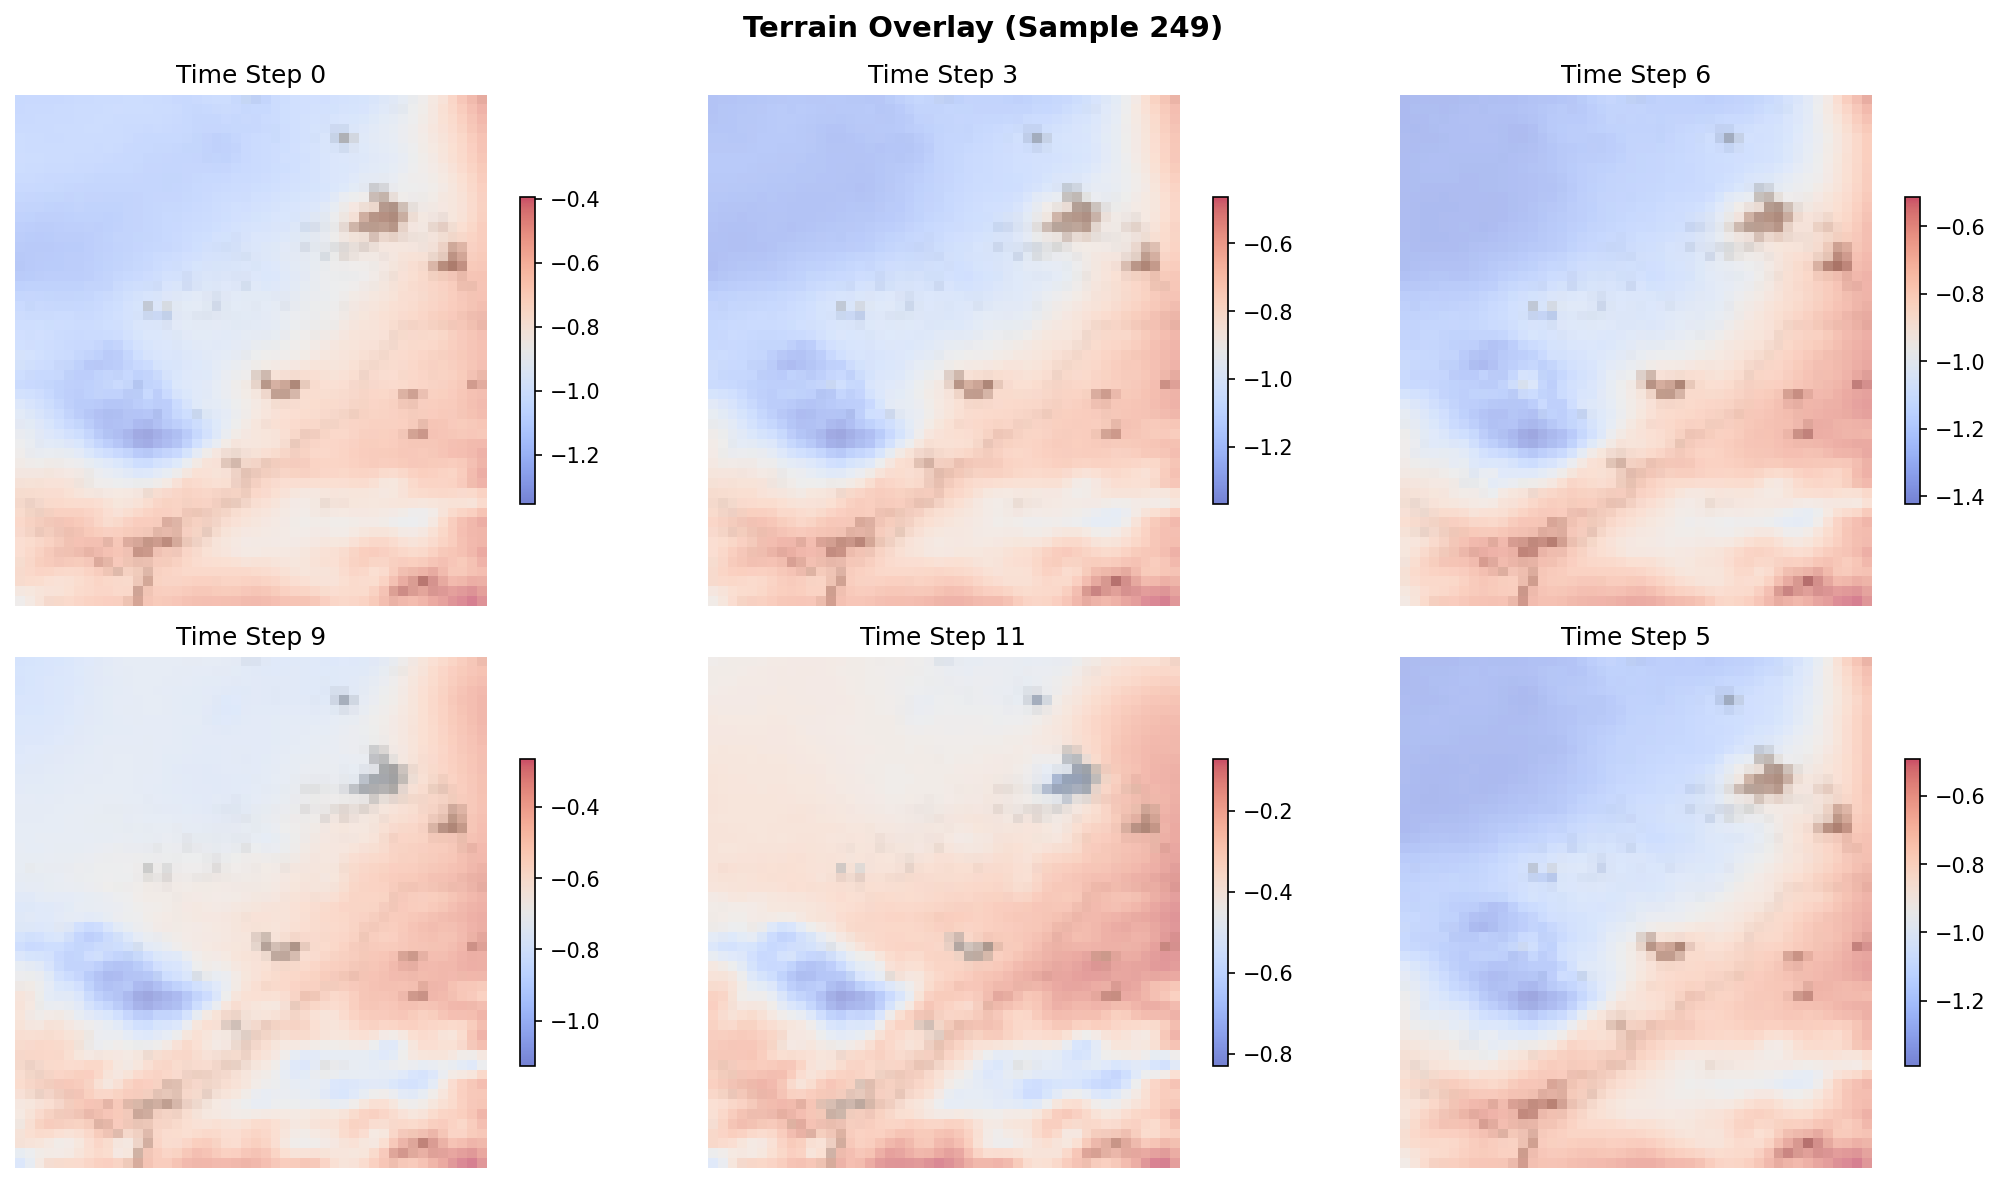
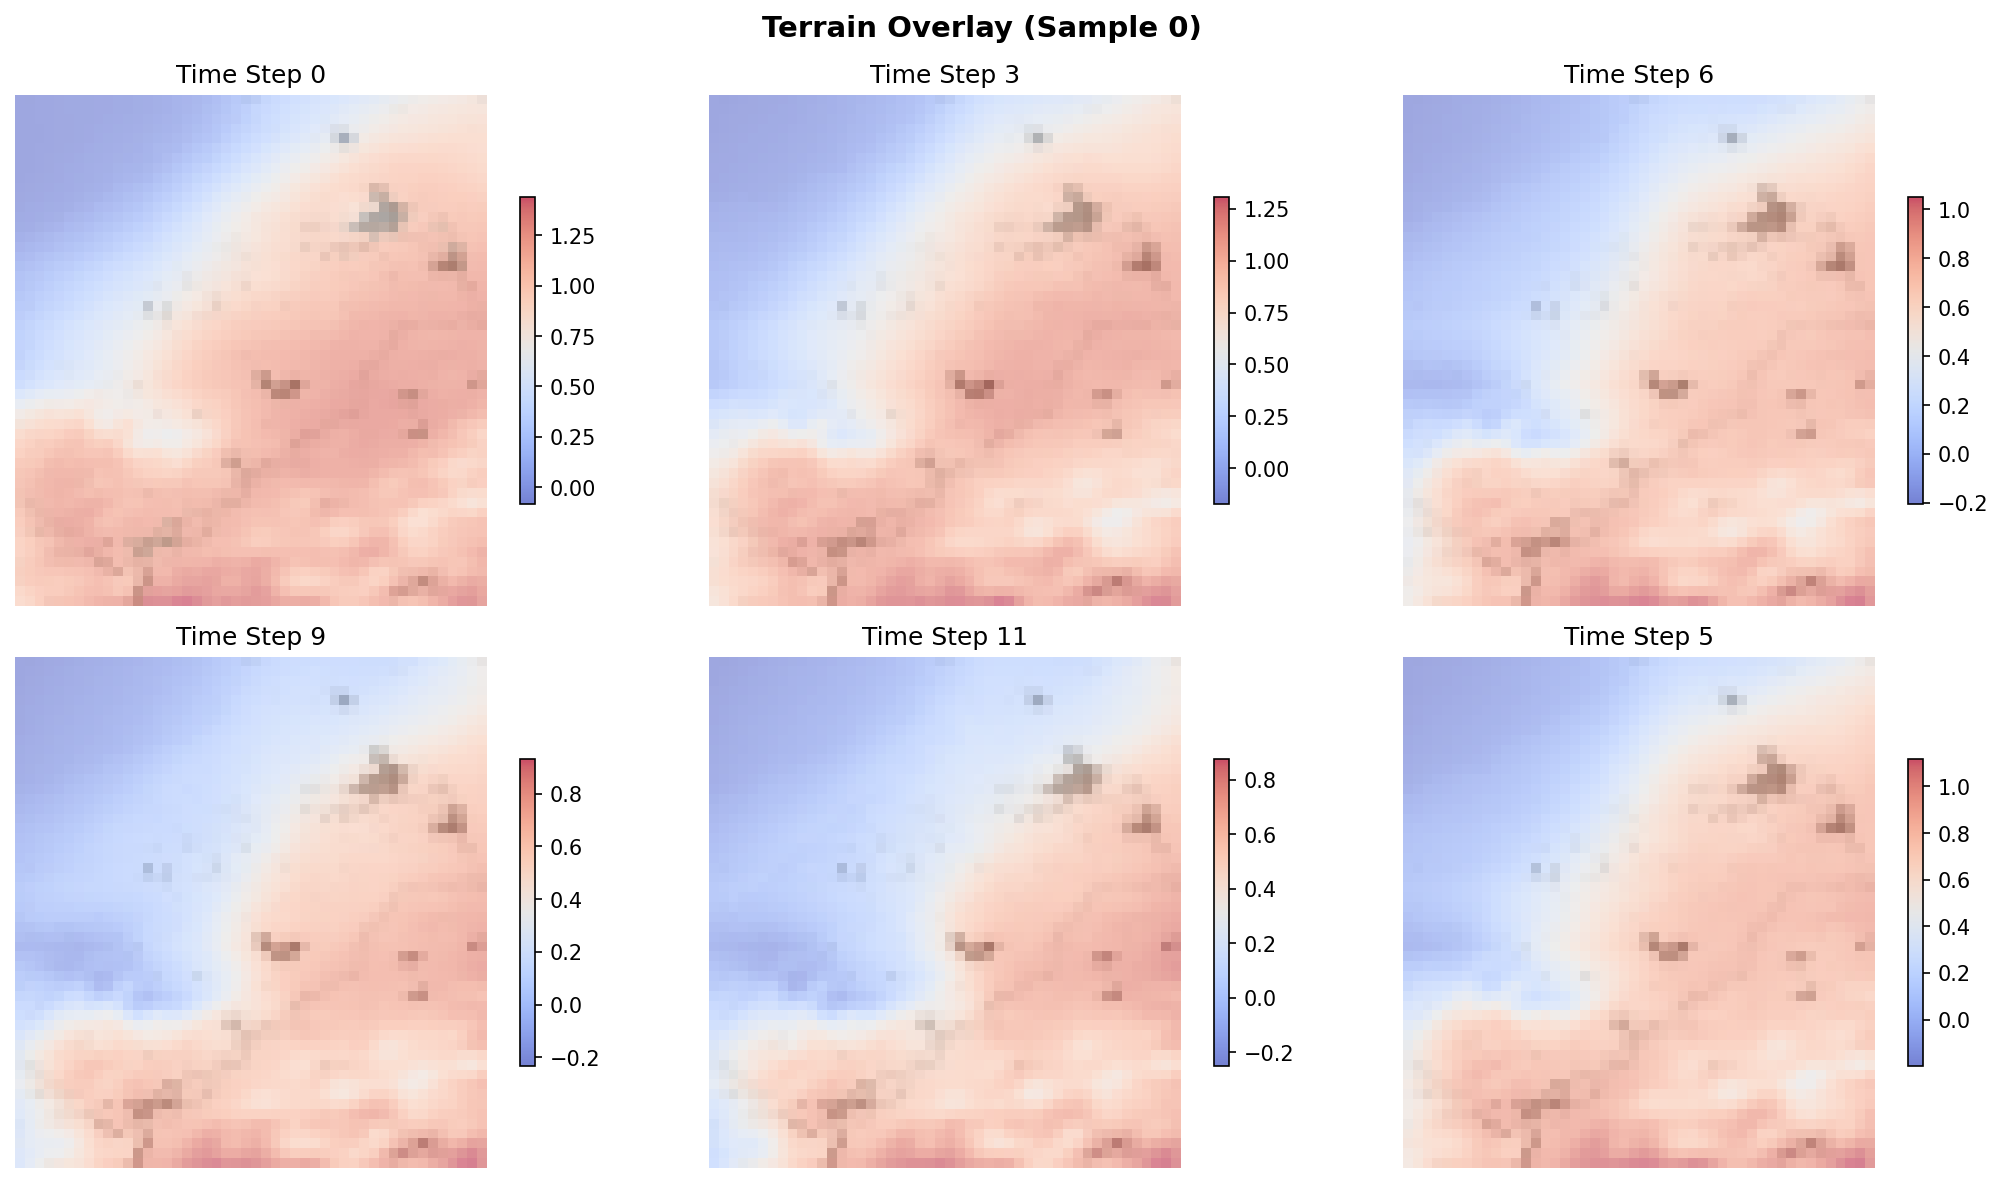
optimization

diff --git a/scripts/train.py b/scripts/train.py
@@ -1,26 +1,42 @@
-import argparse
-import os
-
+from src.config import DEVICE, PT_DATA_DIR, PT_DATA_FILE, TERRAIN_DATA_FILE, BATCH_SIZE, ACCUMULATE_STEPS, NUM_EPOCHS, LEARNING_RATE, WEIGHT_DECAY
 from torch.utils.data import DataLoader
 from src.dataset import ClimateDataset
 from src.models import ClimateUNet
-from src.config import DEVICE, PT_DATA_DIR, PT_DATA_FILE, TERRAIN_DATA_FILE, BATCH_SIZE, ACCUMULATE_STEPS, NUM_EPOCHS, LEARNING_RATE, WEIGHT_DECAY
+from src.animator import Animator
 import torch.optim as optim
 import torch.nn as nn
 from tqdm import tqdm
-from src.animator import Animator
+import argparse
 import torch
+import os
 
 if __name__ == "__main__":
-    parser = argparse.ArgumentParser(description="Train ClimateUNet model")
-    parser.add_argument("--resume", "--ckpt", type=str, default=None, dest="resume",
-                        help="Path to checkpoint to resume from")
-    parser.add_argument("--epochs", type=int, default=NUM_EPOCHS,
-                        help=f"Number of training epochs (default: {NUM_EPOCHS})")
-    parser.add_argument("--batch-size", type=int, default=BATCH_SIZE,
-                        help=f"Batch size (default: {BATCH_SIZE})")
-    parser.add_argument("--accumulate-steps", type=int, default=ACCUMULATE_STEPS,
-                        help=f"Gradient accumulation steps (default: {ACCUMULATE_STEPS})")
+    parser = argparse.ArgumentParser(description = "Train ClimateUNet model")
+    parser.add_argument(
+        "--resume",
+        type = str, 
+        default = None, 
+        dest = "resume",
+        help = "Path to checkpoint to resume from"
+    )
+    parser.add_argument(
+        "--epochs", 
+        type = int, 
+        default = NUM_EPOCHS,
+        help = f"Number of training epochs (default: {NUM_EPOCHS})"
+    )
+    parser.add_argument(
+        "--batch-size", 
+        type = int, 
+        default = BATCH_SIZE,
+        help = f"Batch size (default: {BATCH_SIZE})"
+    )
+    parser.add_argument(
+        "--accumulate-steps", 
+        type = int, 
+        default = ACCUMULATE_STEPS,
+        help = f"Gradient accumulation steps (default: {ACCUMULATE_STEPS})"
+    )
     args = parser.parse_args()
 
     train_dataset = ClimateDataset(
@@ -31,7 +47,7 @@ if __name__ == "__main__":
     eval_dataset = ClimateDataset(
         data_path=PT_DATA_DIR + "/" + PT_DATA_FILE,
         terrain_path=PT_DATA_DIR + "/" + TERRAIN_DATA_FILE,
-        split="val"
+        split="test"
     )
     model = ClimateUNet(
         terrain_data = train_dataset.terrain.repeat(2, 1, 1), 

diff --git a/src/dataset.py b/src/dataset.py
@@ -1,9 +1,7 @@
 from datetime import datetime, timedelta
-
 from torch.utils.data import Dataset
+from torchvision import transforms
 import torch
-
-from src.config import TRAIN_RATIO, VAL_RATIO
 
 
 class ClimateDataset(Dataset):
@@ -29,24 +27,20 @@ class ClimateDataset(Dataset):
 
         mean = self.data.mean(dim = [0, 2, 3])
         std = self.data.std(dim = [0, 2, 3])
-        self.mean = mean
-        self.std = std
-        self.data = (self.data - mean.view(1, -1, 1, 1)) / std.view(1, -1, 1, 1)
+        self.transform = transforms.Compose([transforms.Normalize(mean, std)])
+        self.data = self.transform(self.data)
 
         total_times = self.data.shape[0]
-        total_samples = total_times - 84
+        test_hours = int((total_times - 84) * 0.05)
+        train_end = total_times - test_hours
 
-        train_end = int(total_samples * TRAIN_RATIO)
-        val_end = train_end + int(total_samples * VAL_RATIO)
+        self.train_indices = torch.tensor(range(0, train_end - 84, 1))
+        random_indices = torch.randperm(self.train_indices.size(0))
+        self.train_indices = self.train_indices[random_indices]
 
-        self.train_indices = torch.tensor(range(0, train_end, 1))
-        self.train_indices = self.train_indices[torch.randperm(self.train_indices.size(0))]
-
-        self.val_indices = torch.tensor(range(train_end, val_end, 1))
-        self.val_indices = self.val_indices[torch.randperm(self.val_indices.size(0))]
-
-        self.test_indices = torch.tensor(range(val_end, total_samples, 1))
-        self.test_indices = self.test_indices[torch.randperm(self.test_indices.size(0))]
+        self.test_indices = torch.tensor(range(train_end, total_times - 84, 1))
+        random_indices = torch.randperm(self.test_indices.size(0))
+        self.test_indices = self.test_indices[random_indices]
 
     def idx2time(self, idx: int) -> tuple[int, int, int]:
         start = datetime(2020, 1, 1)
@@ -56,16 +50,12 @@ class ClimateDataset(Dataset):
     def __len__(self) -> int:
         if self.split == "train":
             return len(self.train_indices)
-        elif self.split == "val":
-            return len(self.val_indices)
         else:
             return len(self.test_indices)
 
     def __getitem__(self, idx: int) -> dict:
         if self.split == "train":
             time_idx = self.train_indices[idx]
-        elif self.split == "val":
-            time_idx = self.val_indices[idx]
         else:
             time_idx = self.test_indices[idx]
 
@@ -84,21 +74,18 @@ class ClimateDataset(Dataset):
 
 
 if __name__ == "__main__":
-    train_ds = ClimateDataset(split="train")
-    val_ds = ClimateDataset(split="val")
-    test_ds = ClimateDataset(split="test")
+    train_ds = ClimateDataset(split = "train")
+    test_ds = ClimateDataset(split = "test")
 
     print(f"训练集样本数: {len(train_ds)}")
-    print(f"验证集样本数: {len(val_ds)}")
     print(f"测试集样本数: {len(test_ds)}")
 
     train_start = train_ds.train_indices[0]
     train_end = train_ds.train_indices[-1] + 72
-    val_start = val_ds.val_indices[0]
     test_start = test_ds.test_indices[0]
 
-    print(f"时间分离 train→val: {train_end <= val_start}")
-    print(f"时间分离 val→test: {val_ds.val_indices[-1] + 72 <= test_start}")
+    print(f"测试集开始时间: {test_start}")
+    print(f"时间分离: {train_end <= test_start}")
 
     sample = train_ds[0]
     print(f"Input shape: {sample['input'].shape}")

diff --git a/scripts/test_model.py b/scripts/test_model.py
@@ -1,16 +1,23 @@
-import argparse
-
+from src.config import DEVICE, PT_DATA_DIR, PT_DATA_FILE, TERRAIN_DATA_FILE
 from src.dataset import ClimateDataset
 from src.models import ClimateUNet
-from src.config import DEVICE, PT_DATA_DIR, PT_DATA_FILE, TERRAIN_DATA_FILE
-import torch
 from tqdm import tqdm
+import argparse
+import torch
 
 if __name__ == "__main__":
     parser = argparse.ArgumentParser(description="Test ClimateUNet model")
-    parser.add_argument("--ckpt", type=str, default="checkpoints/ckpt_final.pt",
-                        help="Path to checkpoint (default: checkpoints/ckpt_final.pt)")
+    parser.add_argument(
+        "--ckpt", 
+        type = str, 
+        default = "checkpoints/ckpt_final.pt",
+        help = "Path to checkpoint (default: checkpoints/ckpt_final.pt)"
+    )
     args = parser.parse_args()
+    data = torch.load(PT_DATA_DIR + "/" + PT_DATA_FILE)[:, :, 1:, :-1]
+    std = data.std(dim = [0, 2, 3])
+    mean = data.mean(dim = [0, 2, 3])
+
     device = DEVICE
 
     dataset = ClimateDataset(
@@ -56,7 +63,7 @@ if __name__ == "__main__":
 
             max_err = (t2m_pred - t2m_true).abs().max().item()
             mean_err = (t2m_pred - t2m_true).abs().mean().item()
-            true_t2m_err = mean_err * dataset.std[0].item()
+            true_t2m_err = mean_err * std[0].item()
 
             all_max_errs.append(max_err)
             all_mean_errs.append(mean_err)

diff --git a/src/config.py b/src/config.py
@@ -1,24 +1,24 @@
 import torch
 
-DATA_DIR = "data"
-PT_DATA_DIR = "pt_data"
-PT_DATA_FILE = "era5_data.pt"
 TERRAIN_DATA_FILE = "terrain_data.pt"
+PT_DATA_FILE = "era5_data.pt"
+PT_DATA_DIR = "pt_data"
+DATA_DIR = "data"
 
-IN_CHANNELS = 12
-OUT_CHANNELS = 12
 BASE_CHANNELS = 64
+OUT_CHANNELS = 12
+IN_CHANNELS = 12
 H = 52
 W = 48
 T = 72
 
-BATCH_SIZE = 6
 ACCUMULATE_STEPS = 10
-NUM_EPOCHS = 15
 LEARNING_RATE = 1e-4
 WEIGHT_DECAY = 1e-5
+NUM_EPOCHS = 15
+BATCH_SIZE = 6
 
-TRAIN_RATIO = 0.7
-VAL_RATIO = 0.15
+TRAIN_RATIO = 0.95
+VAL_RATIO = 0.05
 
 DEVICE = torch.device("cuda" if torch.cuda.is_available() else "cpu")

diff --git a/demos/climate_visualizer.py b/demos/climate_visualizer.py
@@ -3,6 +3,7 @@ from pathlib import Path
 
 import matplotlib.pyplot as plt
 import torch
+import os
 
 from src.config import DEVICE
 from src.dataset import ClimateDataset
@@ -18,7 +19,7 @@ class ClimateVisualizer:
         'ssr', 'sp', 'stl1', 'sshf', 'swvl1', 'lmlt'
     ]
 
-    def __init__(self, model_path: str = "checkpoints/ckpt_final.pt"):
+    def __init__(self, model_path: str = "checkpoints/ckpt_epoch_11.pt"):
         self.device = DEVICE
         self.dataset = ClimateDataset(
             data_path="pt_data/era5_data.pt",
@@ -148,7 +149,7 @@ class ClimateVisualizer:
         return fig, ani
 
 
-def main():
+if __name__ == "__main__":
     visualizer = ClimateVisualizer()
     os.makedirs('demos', exist_ok=True)
 
@@ -163,7 +164,3 @@ def main():
     fig, ani = visualizer.create_animation(sample_idx = 0, channel=0)
     ani.save('demos/prediction_animation.gif', writer='pillow', fps=2, dpi=100)
     plt.close(fig)
-
-if __name__ == "__main__":
-    import os
-    main()

diff --git a/README.md b/README.md
@@ -4,23 +4,34 @@
 
 ```
 PythonScientificCalculation/
-├── src/                    # Core source code
+├── src/                        # Core source code
 │   ├── __init__.py
-│   ├── config.py          # Configuration
-│   ├── dataset.py         # Dataset class
-│   ├── model.py           # ClimateUNet model
-│   └── animator.py        # Visualization animator
-├── scripts/               # Training, testing & data scripts
+│   ├── config.py               # Configuration
+│   ├── dataset.py              # Dataset class
+│   ├── animator.py             # Visualization animator
+│   └── models/                 # Neural network models
+│       ├── __init__.py
+│       ├── unet.py             # ClimateUNet 3D U-Net model
+│       ├── attention.py        # Triple attention mechanisms
+│       ├── blocks.py           # ConvBlock, EncoderBlock, DecoderBlock
+│       └── embedding.py        # TimeEmbedding, TerrainEmbedding
+├── scripts/                    # Training, testing & data scripts
 │   ├── train.py
-│   ├── test_model.py
-│   ├── converter.py       # Raw NC data → PyTorch tensors
-│   └── installer.py       # ERA5-Land data downloader
-├── demos/                 # Visualization demos
+│   ├── test_model.py           # Model testing
+│   ├── converter.py            # Raw NC data → PyTorch tensors
+│   └── installer.py            # ERA5-Land data downloader
+├── demos/                      # Visualization demos
 │   └── climate_visualizer.py
-├── checkpoints/           # Model checkpoints
-├── pt_data/               # Processed data
-├── data/                  # Raw data
-└── docs/                  # Documentation
+├── checkpoints/                # Model checkpoints
+|   ├── ckpt_epoch_final.pt
+|   └── ckpt_epoch_1~15.pt
+├── pt_data/                    # Processed data
+|   ├── terrain_data.pt
+|   └── era5_data.pt
+├── data/                       # Raw data
+└── docs/                       # Documentation
+    ├── TechnicalReport.pdf
+    └── arch.png
 ```
 
 ## Quick Start